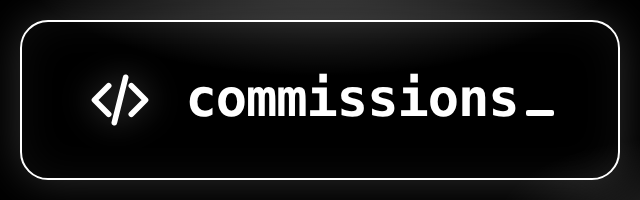
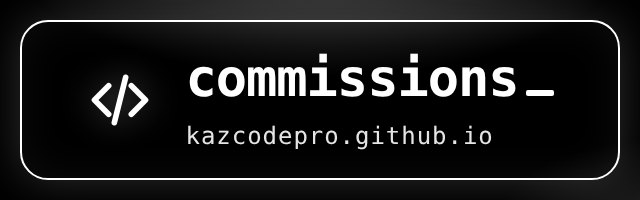
Add files via upload

Changed region(s): [[0.2812, 0.27, 0.875, 0.6], [0.2812, 0.63, 0.7812, 0.75]]

diff --git a/README.md b/README.md
@@ -41,7 +41,7 @@ I build Roblox systems, interfaces and gameplay, and I make websites with React 
   <img src="assets/btn-discord.png" width="240" alt="Discord 6b617a" />
   <a href="https://www.roblox.com/users/profile?username=kazcodepro"><img src="assets/btn-roblox.png" width="240" alt="Roblox" /></a>
   <a href="https://github.com/kazcodepro"><img src="assets/btn-github.png" width="240" alt="GitHub" /></a>
-  <img src="assets/btn-commissions.png" width="240" alt="Open for commissions" />
+  <a href="https://kazcodepro.github.io"><img src="assets/btn-commissions.png" width="240" alt="Open for commissions — kazcodepro.github.io" /></a>
 </p>
 
 <img src="assets/footer.png" width="100%" alt="thanks for stopping by" />
